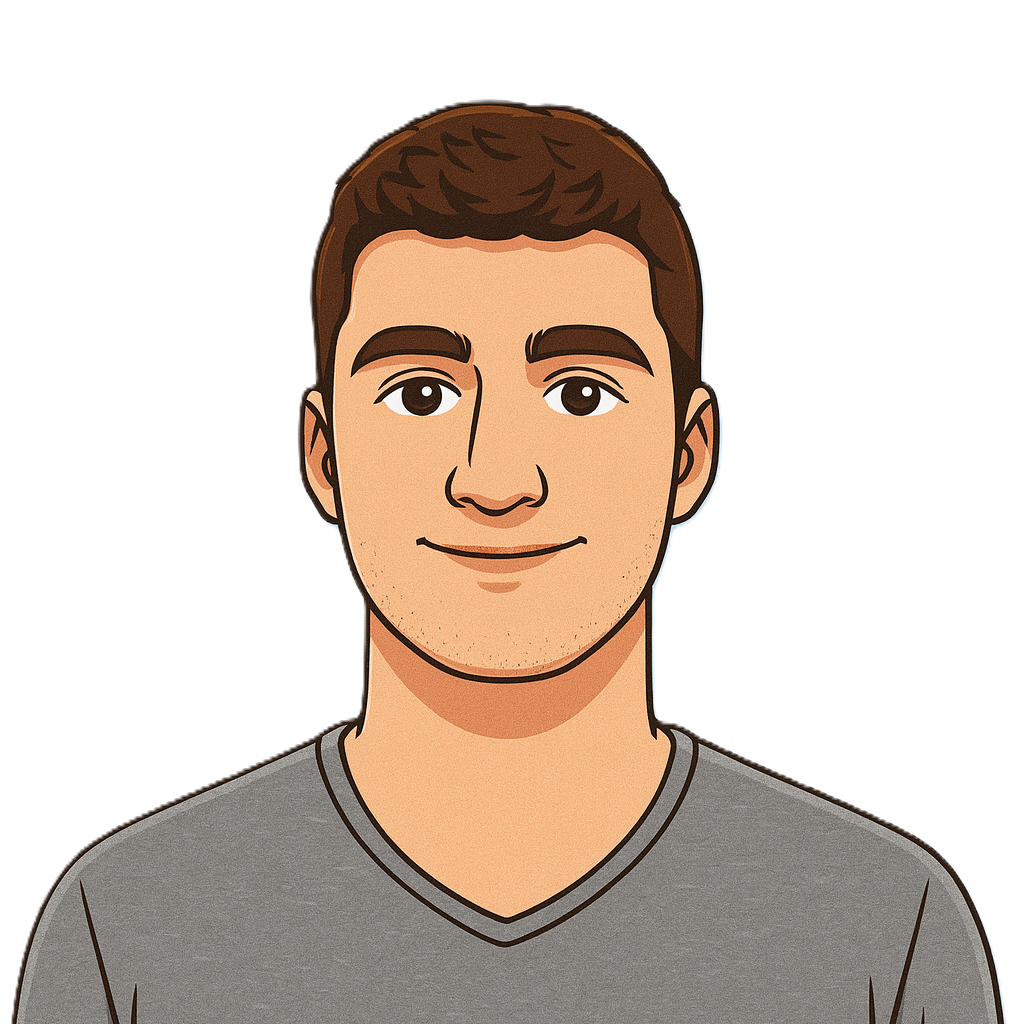
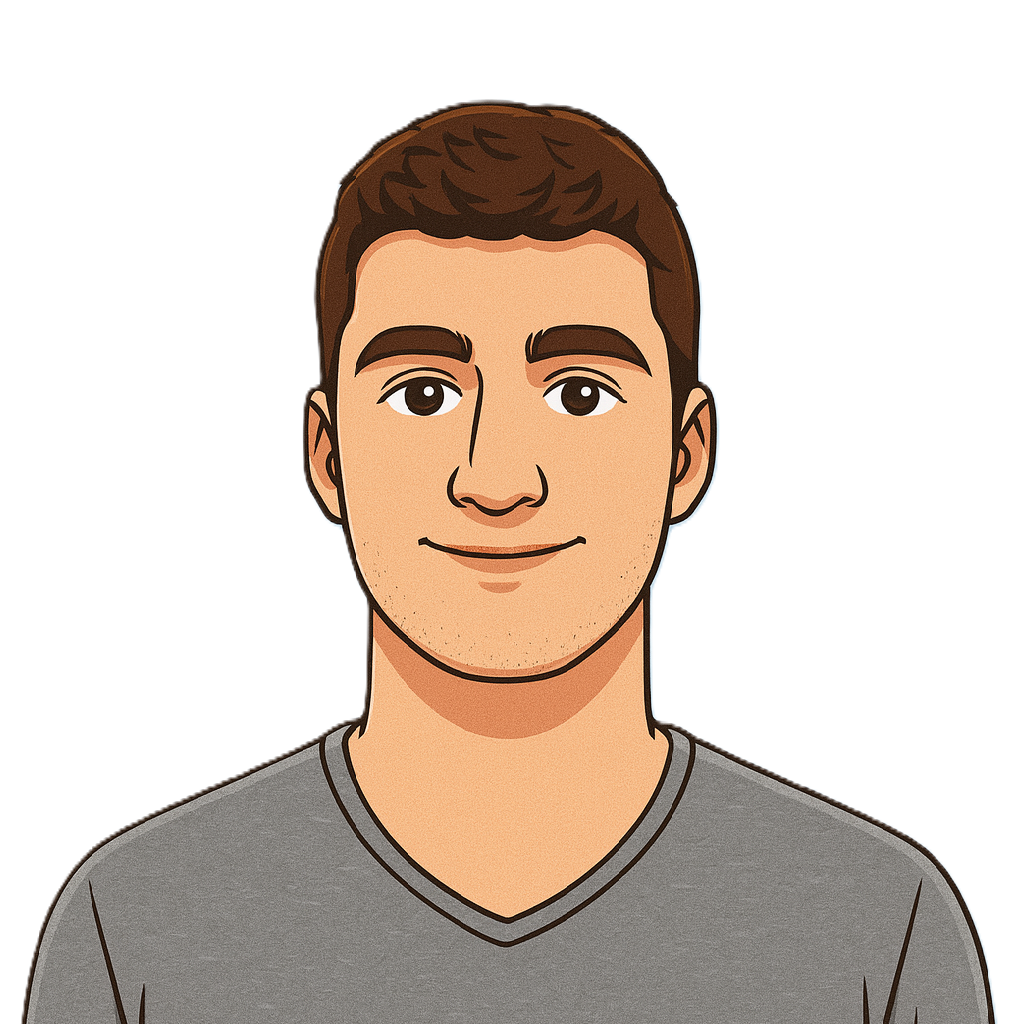
update members list and pictures

diff --git a/index.html b/index.html
@@ -244,7 +244,6 @@
                             <p>Pas très vite le matin, doucement </p>
                             <p>l'après midi, mais vif sur la raclette</p>
                         </div>
-                        <!-- Ajoute autant de membres que tu veux ici ! -->
                         <div class="member-card">
                             <div class="avatar"><img src="Ressources/Avatar_membres/avatar_nino.png" alt="Avatar nino" class="logo-image"></div>
                             <h4>Nino</h4>
@@ -292,13 +291,13 @@
                             <p>Réussi à réparer une 4L</p>
                             <p>sans tacher sa chemise</p>
                         </div>
-                        <div class="member-card">
+                        <!-- <div class="member-card">
                             <div class="avatar"><img src="Ressources/Avatar_membres/avatar_valentop.png" alt="Avatar Letud" class="logo-image"></div>
                             <h4>Valentop (Valentin)</h4>
                             <h3>IDIoT</h3>
-                            <p>Pseudo + phrase qui fait sourire</p>
-                            <p>Pseudo + phrase qui fait sourire</p>
-                        </div>
+                            <p>50 minutes de courses compenseront</p>
+                            <p>largement ce petit verre et ce mcdo</p>
+                        </div> -->
                     </div>
                 </div>
 
